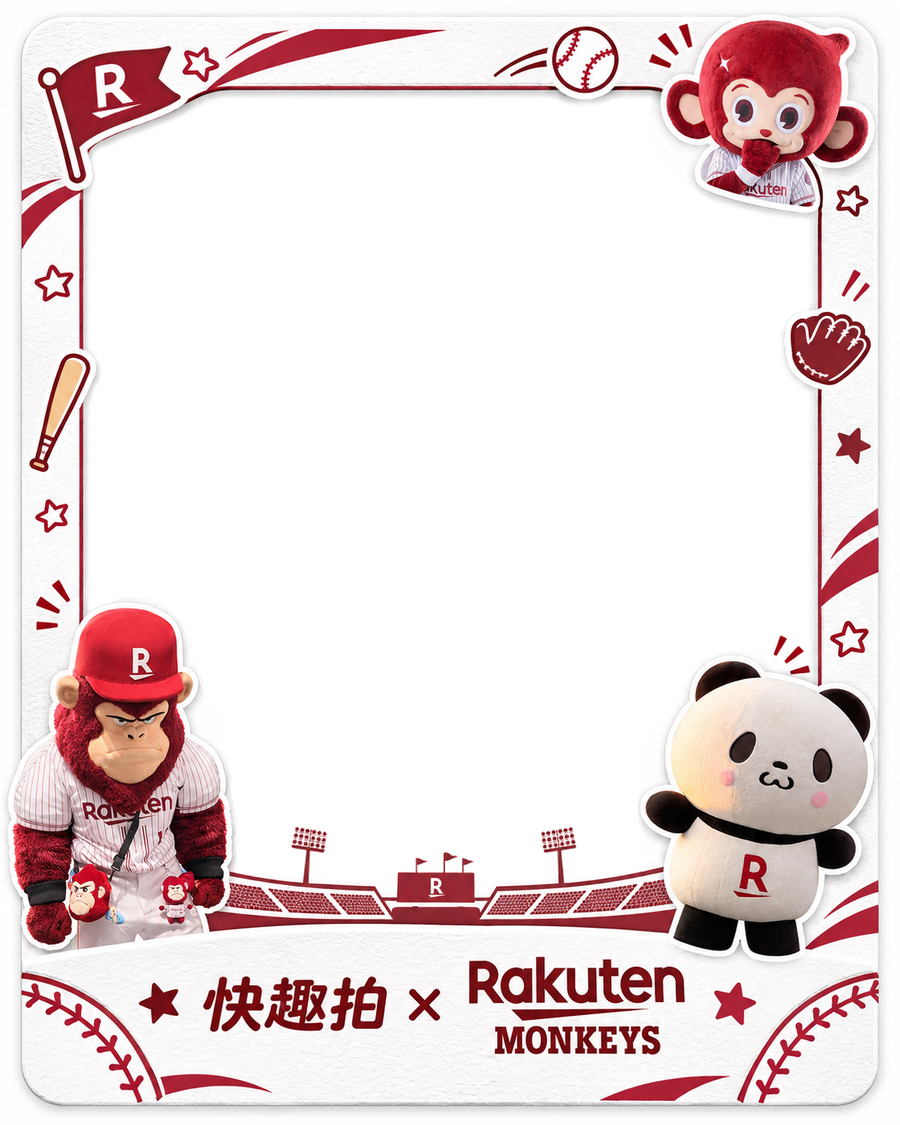
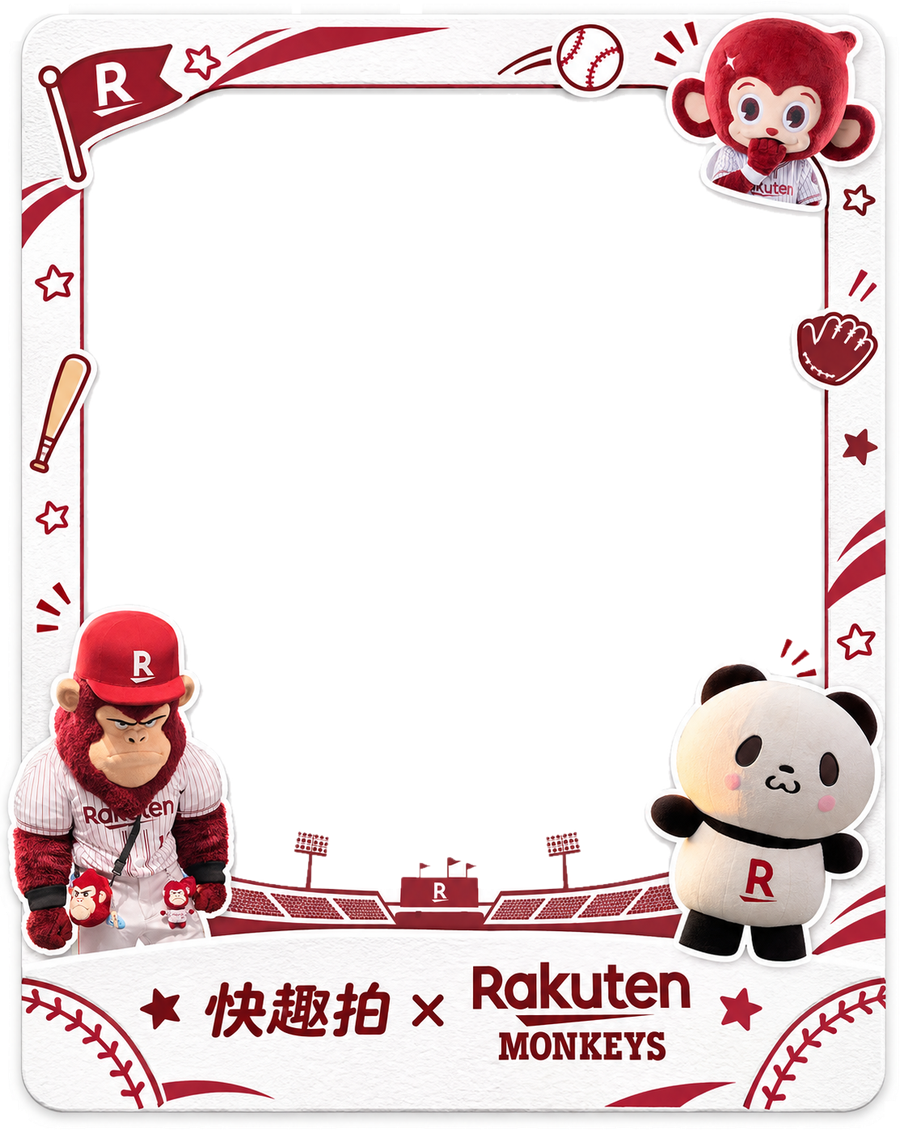
feat: new Rakuten Monkeys frame with a stadium and mascots on the photo
The art came flat, its paper as white as the window and the backdrop, so
the card is cut as a rounded rectangle and the window as the white inside
the inner red line; the gorilla keeps the part past the card's edge.

diff --git a/lib/widgets/instant_print.dart b/lib/widgets/instant_print.dart
@@ -18,7 +18,7 @@ enum FilmStock {
   filmFrame('底片框', 'assets/instant/frame_film.png', _frameWindow, Colors.white, Color(0xFF1E1E20), Color(0xFFD4AF5A), aspect: _frameAspect),
   keroroFrame('Keroro 框', 'assets/instant/frame_keroro.png', Rect.fromLTWH(.09667, .07833, .78222, .71167), ink, Colors.white, ink, aspect: .75, overlay: true),
   pokemonFrame('寶可夢框', 'assets/instant/frame_pokemon.png', Rect.fromLTWH(.16889, .11612, .66333, .68121), Colors.white, Color(0xFF1E1E20), Color(0xFFD4AF5A), aspect: .66568, overlay: true),
-  rakutenFrame('樂天桃猿框', 'assets/instant/frame_rakuten.png', Rect.fromLTWH(.09778, .08622, .8, .69156), ink, Colors.white, Color(0xFF9E1B32), aspect: .8, overlay: true);
+  rakutenFrame('樂天桃猿框', 'assets/instant/frame_rakuten.png', Rect.fromLTWH(.09793, .07728, .81941, .6834), ink, Colors.white, Color(0xFF9E1B32), aspect: .79646, overlay: true);
 
   final String label, asset;
   /// The photo window, as fractions of the print.
